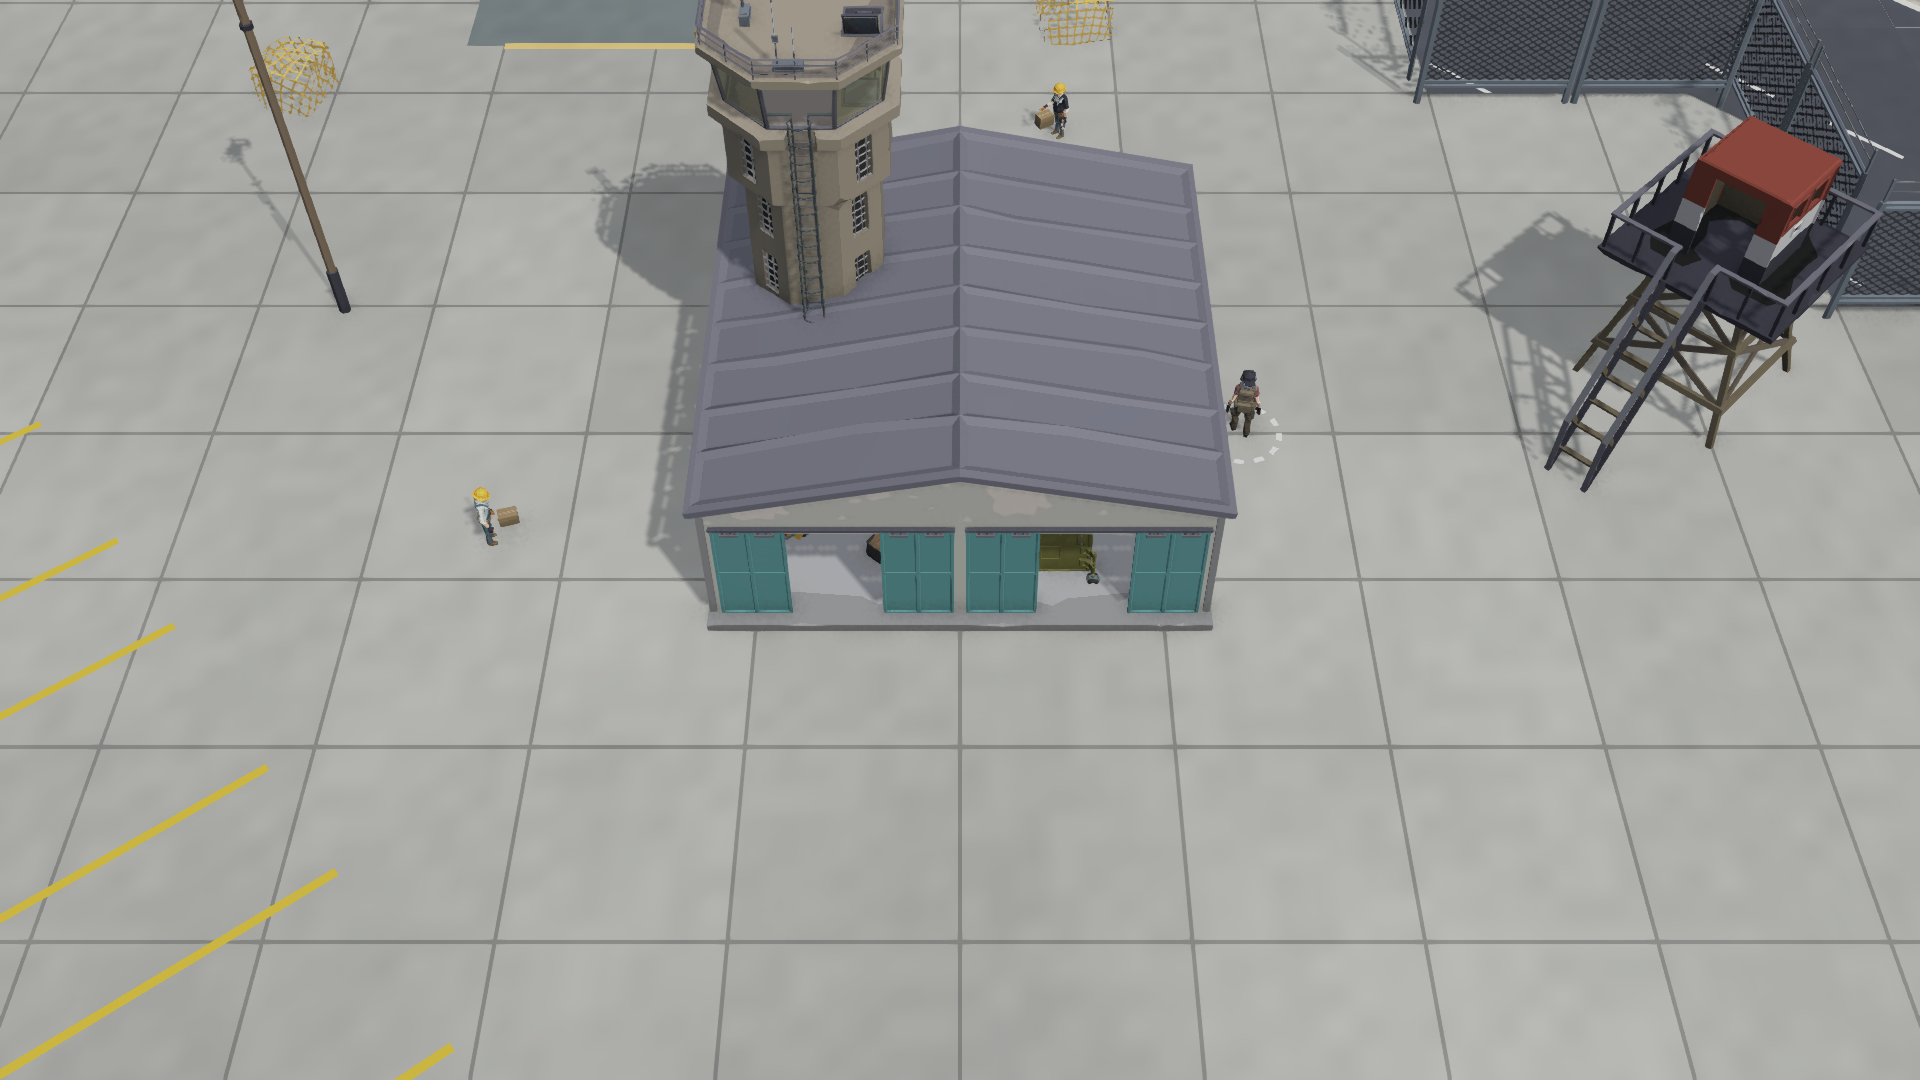
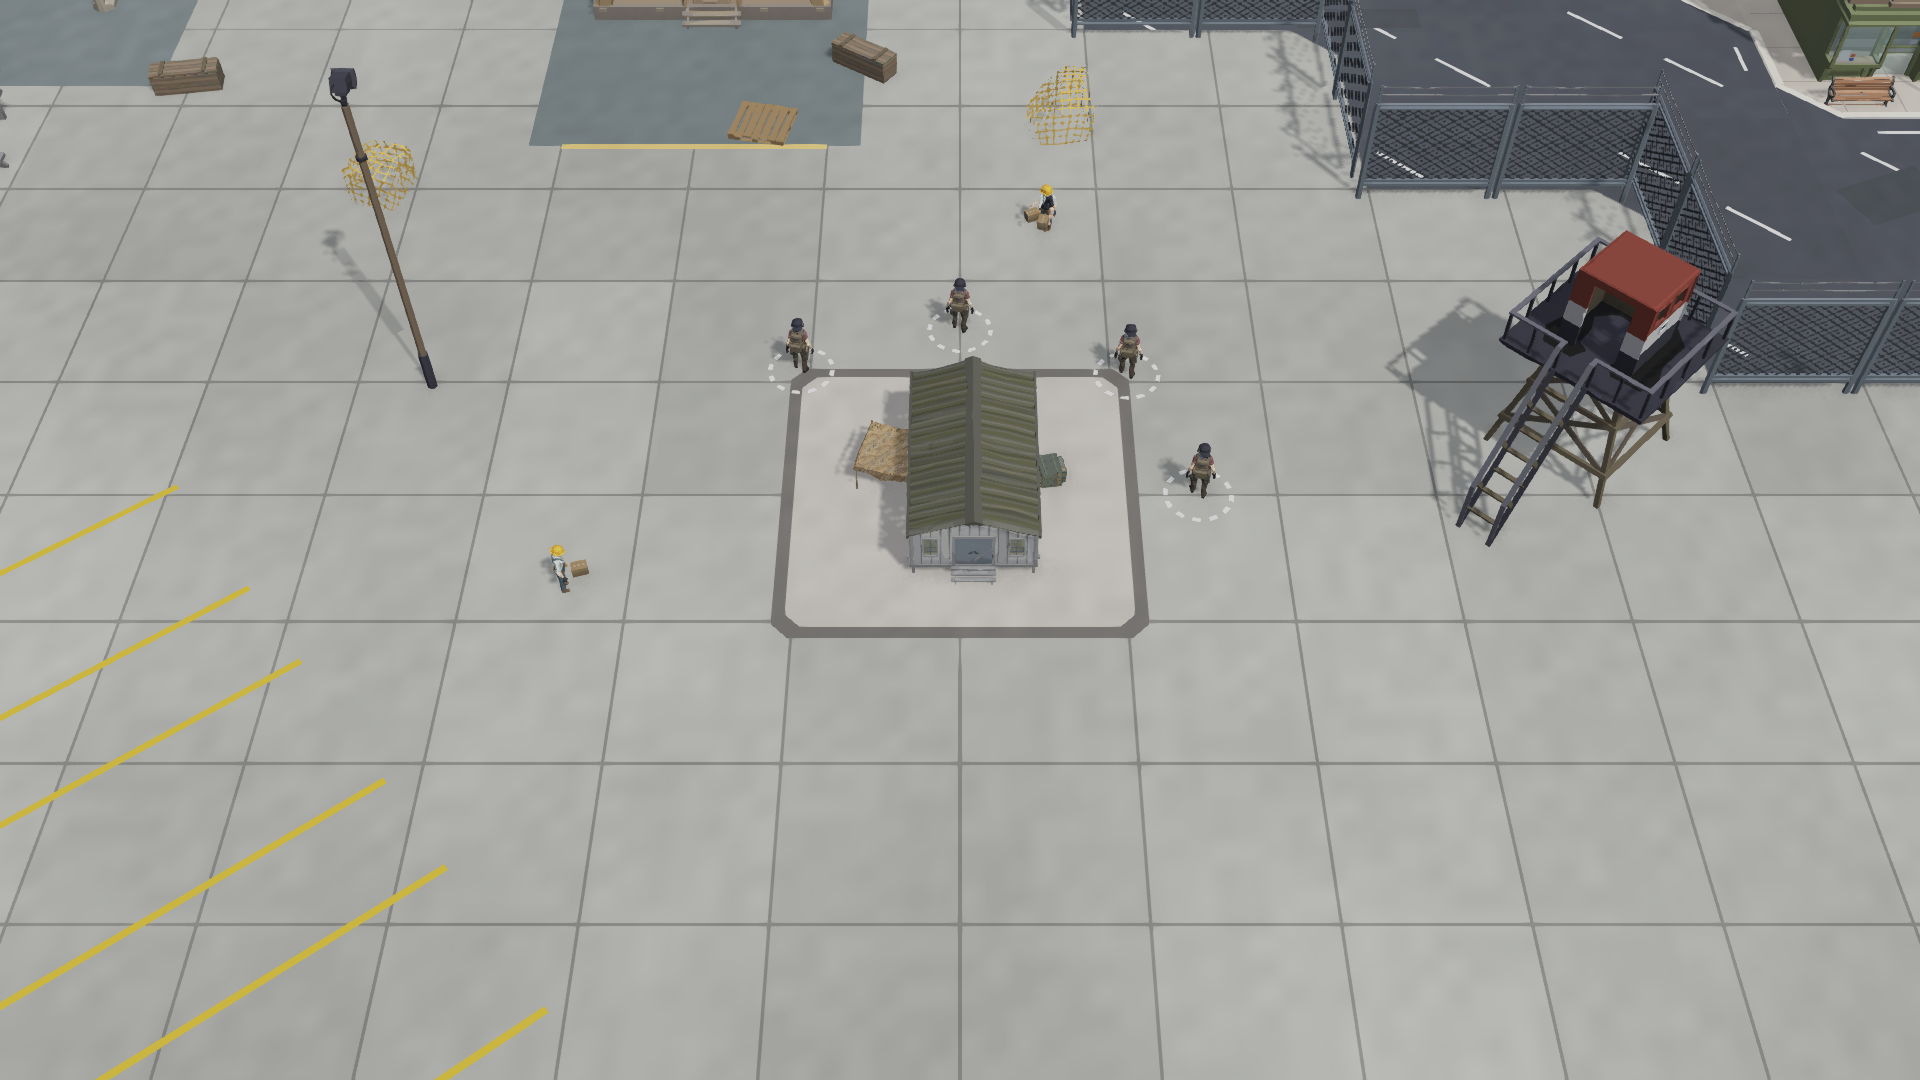
[gemini] 승인된 사령부(HQ) 1->2->3단계 컨셉 시안 실게임 적용 (1단계 막사 본관 교체 + 2·3단계 Synty+GLB 증설 및 Map4P 육안 검수 통과)

diff --git a/Assets/Editor/FactoryWars/HqTierKitTools.cs b/Assets/Editor/FactoryWars/HqTierKitTools.cs
@@ -1,0 +1,108 @@
+namespace FactoryWars.EditorTools {
+  using System;
+  using System.IO;
+  using FactoryWars.View;
+  using UnityEditor;
+  using UnityEngine;
+
+  /// <summary>
+  /// 승인된 사령부(HQ) 1→2→3단계 컨셉 시안 적용 도구.
+  /// 1) 1단계 본관(ff_headquarters_kit / cf_headquarters_kit)을 단순 창고에서 Synty 군사 막사 + 위장 텐트 + 방벽 + 보급품으로 교체.
+  /// 2) 2·3단계 증설 파츠(작전통제실 윙·발전기·관제탑·강화 방벽·헬리패드·투광등·지휘 APC·지휘 헬기)를 Resources/FactoryWarsPolish/에 배치.
+  /// </summary>
+  public static class HqTierKitTools {
+    const string PolishDir = SyntyAssign.OutRoot + "/Polish/Resources/FactoryWarsPolish";
+    const string PrefabDir = SyntyAssign.OutRoot + "/Prefabs";
+    const string PM = SyntyAssign.PackRoot + "/PolygonMilitary/Prefabs/";
+    const string PCN = SyntyAssign.PackRoot + "/PolygonConstruction/Prefabs/";
+    const string GLB = "Assets/ThirdParty/GlbImported/Prefabs/";
+
+    [MenuItem("Tools/Factory Wars/Assets/Apply Approved HQ Tier 1-3 Kit")]
+    public static void ApplyApprovedHqTierKit() {
+      Directory.CreateDirectory(PolishDir);
+      Directory.CreateDirectory(PrefabDir);
+      AssetDatabase.Refresh(ImportAssetOptions.ForceSynchronousImport);
+
+      // 1. Copy Tier 2 & Tier 3 modular upgrade parts into Resources/FactoryWarsPolish/
+      var parts = new (string Key, string Source)[] {
+        ("HqControlRoom1", PM + "Props/Military/SM_Prop_Drone_Control_Room_01.prefab"),
+        ("HqControlRoom2", PM + "Props/Military/SM_Prop_Drone_Control_Room_02.prefab"),
+        ("HqGenerator",    PM + "Props/SM_Prop_Generator_Large_01.prefab"),
+        ("HqControlTower", PM + "Buildings/SM_Bld_ControlTower_01.prefab"),
+        ("HqBlastWall",    PM + "Props/SM_Prop_Barrier_Tall_Group_01.prefab"),
+        ("HqHelipad",      PM + "Environment/SM_Env_Helipad_01.prefab"),
+        ("HqFloodlight",   PCN + "Props/SM_Prop_Floodlights_01.prefab"),
+        ("HqCmdApc",       GLB + "armored_troop_carrier.prefab"),
+        ("HqCmdHeli",      GLB + "mh6_little_bird.prefab"),
+      };
+      var copied = 0;
+      foreach (var (key, src) in parts) {
+        var dst = $"{PolishDir}/{key}.prefab";
+        if (AssetDatabase.LoadAssetAtPath<GameObject>(src) == null) {
+          Debug.LogWarning($"[FW-HQ] Missing source prefab: {src}");
+          continue;
+        }
+        if (AssetDatabase.LoadAssetAtPath<GameObject>(dst) != null) {
+          AssetDatabase.DeleteAsset(dst);
+        }
+        if (AssetDatabase.CopyAsset(src, dst)) copied++;
+      }
+
+      // 2. Rebuild Tier 1 Field HQ core (ff_headquarters_kit & cf_headquarters_kit)
+      var catalog = AssetDatabase.LoadAssetAtPath<VisualCatalog>(VisualCatalogTools.AssetPath);
+      if (catalog == null) throw new InvalidOperationException($"Missing VisualCatalog at {VisualCatalogTools.AssetPath}");
+
+      foreach (var faction in new[] { "ff", "cf" }) {
+        var kitPath = $"{PrefabDir}/{faction}_headquarters_kit.prefab";
+        var root = new GameObject($"{faction}_headquarters_kit");
+        try {
+          // Core low-profile military barracks (replaces monotonous Warehouse_01 + baked ControlTower)
+          AddPart(root.transform, PM + "Buildings/SM_Bld_Barracks_01.prefab", Vector3.zero, Quaternion.identity, Vector3.one * 0.92f);
+          // Right-side camo net command canopy
+          AddPart(root.transform, PM + "Buildings/SM_Bld_CamoNet_Tent_01.prefab", new Vector3(4.3f, 0f, -1.5f), Quaternion.Euler(0f, 15f, 0f), Vector3.one * 0.72f);
+          // Front sandbag defensive barrier
+          AddPart(root.transform, PM + "Props/Military/SM_Prop_Barrier_Base_Row_01.prefab", new Vector3(0f, 0f, -4.3f), Quaternion.identity, Vector3.one * 0.95f);
+          // Left-side supply crate stack
+          AddPart(root.transform, PM + "Props/Military/SM_Prop_Crate_Stack_01.prefab", new Vector3(-4.2f, 0f, -1.3f), Quaternion.Euler(0f, -12f, 0f), Vector3.one * 0.95f);
+
+          foreach (var col in root.GetComponentsInChildren<Collider>(true)) UnityEngine.Object.DestroyImmediate(col);
+
+          var prefab = PrefabUtility.SaveAsPrefabAsset(root, kitPath);
+          var bounds = VisualCatalog.LocalBounds(prefab);
+          var slot = catalog.Get($"building/{faction}_headquarters");
+          if (slot != null) {
+            slot.Prefabs.Clear();
+            slot.Prefabs.Add(prefab);
+            slot.PivotOffset = new Vector3(-bounds.center.x, -bounds.min.y, -bounds.center.z);
+            slot.Size = bounds.size;
+            slot.AutoFit = true;
+            slot.Notes = "Approved Tier 1 Field HQ (Barracks + Camo Tent + Sandbags + Crates; Tier 2/3 attached dynamically)";
+            Debug.Log($"[FW-HQ] Rebuilt {slot.Id} -> {kitPath} (size={bounds.size})");
+          }
+        } finally {
+          UnityEngine.Object.DestroyImmediate(root);
+        }
+      }
+
+      catalog.Invalidate();
+      EditorUtility.SetDirty(catalog);
+      AssetDatabase.SaveAssets();
+      Debug.Log($"[FW-HQ] Approved HQ Tier 1-3 Kit applied: copiedParts={copied}");
+    }
+
+    static void AddPart(Transform parent, string assetPath, Vector3 localPos, Quaternion localRot, Vector3 localScale) {
+      var src = AssetDatabase.LoadAssetAtPath<GameObject>(assetPath);
+      if (src == null) {
+        Debug.LogWarning($"[FW-HQ] AddPart missing: {assetPath}");
+        return;
+      }
+      var inst = (GameObject)PrefabUtility.InstantiatePrefab(src, parent);
+      PrefabUtility.UnpackPrefabInstance(inst, PrefabUnpackMode.Completely, InteractionMode.AutomatedAction);
+      var bounds = VisualCatalog.LocalBounds(inst);
+      var baseCenter = new Vector3(bounds.center.x, bounds.min.y, bounds.center.z);
+      inst.transform.localRotation = localRot;
+      inst.transform.localScale = localScale;
+      inst.transform.localPosition = localPos - localRot * Vector3.Scale(baseCenter, localScale);
+    }
+  }
+}

diff --git a/Assets/QuantumUser/View/FactoryWars/Art/HeroVisuals.cs b/Assets/QuantumUser/View/FactoryWars/Art/HeroVisuals.cs
@@ -392,24 +392,39 @@ namespace FactoryWars.View {
       return root;
     }
 
-    /// <summary>사령부 티어(1→2→3) 증설 비주얼: Synty 군사 프리팹(레이더·방벽·보급품·감시탑·지휘 막사)을 건물 외곽 에이프런에 배치(지붕 관통 없음).</summary>
+    /// <summary>
+    /// 승인된 사령부(HQ) 1→2→3단계 컨셉 시안 증설 비주얼:
+    /// - Tier 1: 기본 야전 막사 본관(Barracks + 위장 텐트 + 모래주머니 + 보급품)
+    /// - Tier 2: 좌·우 작전통제실 윙(Drone Control Room) + 비상 발전기 + 회전 이동식 레이더 + 좌측 8륜 지휘 장갑차(GLB APC)
+    /// - Tier 3: 대형 관제탑(ControlTower) + 외곽 감시탑 + 강화 콘크리트 방벽 + 투광등 + 좌측 후방 헬리패드 & 지휘 헬기(GLB Little Bird)
+    /// </summary>
     public static GameObject AttachHqTierUpgrade(Transform model, int tier, float footprint, float modelHeight) {
       if (model == null || tier <= 1) return null;
       var root = new GameObject($"HqTierUpgrade_T{tier}");
       root.transform.SetParent(model.parent != null ? model.parent : model, false);
       root.transform.localPosition = Vector3.zero;
       root.transform.localRotation = Quaternion.identity;
-      var side = Mathf.Max(footprint * 1.48f, 6.4f);
-      var front = Mathf.Max(footprint * 1.32f, 5.6f);
-      // Tier 2: 우측 이동식 레이더 안테나 + 전면 방어 모래주머니 진지 + 좌측 보급 화물 더미.
-      MapPolishArt.Place("Radar", root.transform, new Vector3(side, 0f, 1.6f), Quaternion.Euler(0f, -35f, 0f), new Vector3(3.4f, 4.6f, 3.4f));
-      MapPolishArt.Place("Sandbags", root.transform, new Vector3(0f, 0f, -front), Quaternion.identity, new Vector3(6.8f, 1.25f, 1.35f));
-      MapPolishArt.Place("Crates", root.transform, new Vector3(-side, 0f, -2.0f), Quaternion.Euler(0f, 15f, 0f), new Vector3(2.4f, 1.8f, 2.4f));
+
+      // Tier 2 (Comms & Ops HQ): 좌·우 컨테이너 작전통제실 윙 + 비상 발전기 + 회전 레이더 + 좌측 지휘 장갑차(APC).
+      MapPolishArt.Place("HqControlRoom1", root.transform, new Vector3(-5.6f, 0f, 0.8f), Quaternion.Euler(0f, 90f, 0f), new Vector3(5.0f, 2.9f, 2.8f));
+      MapPolishArt.Place("HqControlRoom2", root.transform, new Vector3(5.6f, 0f, 0.8f), Quaternion.Euler(0f, -90f, 0f), new Vector3(5.0f, 2.9f, 2.8f));
+      MapPolishArt.Place("HqGenerator", root.transform, new Vector3(7.0f, 0f, -2.1f), Quaternion.Euler(0f, -90f, 0f), new Vector3(2.2f, 1.8f, 1.6f));
+      MapPolishArt.Place("Radar", root.transform, new Vector3(4.2f, 0f, -5.2f), Quaternion.Euler(0f, -32f, 0f), new Vector3(3.1f, 4.1f, 3.1f));
+      MapPolishArt.Place("HqCmdApc", root.transform, new Vector3(-5.0f, 0f, -5.1f), Quaternion.Euler(0f, 142f, 0f), new Vector3(2.5f, 2.6f, 5.6f));
+
       if (tier >= 3) {
-        // Tier 3: 좌측 후방 전략 감시탑 + 우측 전면 지휘 위장막 + 좌측 전면 서치라이트(고티어 전략 지휘부 실루엣).
-        MapPolishArt.Place("Tower", root.transform, new Vector3(-side - 0.3f, 0f, 3.2f), Quaternion.Euler(0f, 25f, 0f), new Vector3(3.2f, Mathf.Clamp(modelHeight + 3.2f, 7.6f, 9.8f), 3.2f));
-        MapPolishArt.Place("CamoYard", root.transform, new Vector3(side + 0.4f, 0f, -2.8f), Quaternion.Euler(0f, -90f, 0f), new Vector3(4.2f, 3.2f, 4.0f));
-        MapPolishArt.Place("Light", root.transform, new Vector3(-side + 0.8f, 0f, -front + 0.4f), Quaternion.Euler(0f, 140f, 0f), new Vector3(1.2f, 3.6f, 1.2f));
+        // Tier 3 (Strategic Command HQ): 후방 좌측 대형 관제탑 + 전방 좌측 감시탑 + 전방 우측 헬리패드 & 리틀버드 지휘 헬기 + 비왜곡 방호벽/투광등.
+        MapPolishArt.Place("HqControlTower", root.transform, new Vector3(6.6f, 0f, -6.4f), Quaternion.Euler(0f, 180f, 0f), new Vector3(4.2f, 10.2f, 4.2f));
+        MapPolishArt.Place("Tower", root.transform, new Vector3(7.4f, 0f, 5.8f), Quaternion.Euler(0f, -20f, 0f), new Vector3(2.8f, 6.2f, 2.8f));
+        MapPolishArt.Place("HqHelipad", root.transform, new Vector3(-5.0f, 0.04f, 6.2f), Quaternion.identity, new Vector3(6.6f, 0.14f, 6.6f));
+        MapPolishArt.Place("HqCmdHeli", root.transform, new Vector3(-5.0f, 0.16f, 6.2f), Quaternion.Euler(0f, 138f, 0f), new Vector3(5.2f, 2.1f, 5.0f));
+        // 왜곡 없는 1:1 비율 콘크리트 방호벽(Jersey) 좌·우·후면 정렬 배치.
+        MapPolishArt.Place("Jersey", root.transform, new Vector3(-9.2f, 0f, 1.0f), Quaternion.Euler(0f, 90f, 0f), new Vector3(3.4f, 1.5f, 1.1f));
+        MapPolishArt.Place("Jersey", root.transform, new Vector3(-9.2f, 0f, 4.8f), Quaternion.Euler(0f, 90f, 0f), new Vector3(3.4f, 1.5f, 1.1f));
+        MapPolishArt.Place("Jersey", root.transform, new Vector3(9.2f, 0f, 1.0f), Quaternion.Euler(0f, -90f, 0f), new Vector3(3.4f, 1.5f, 1.1f));
+        MapPolishArt.Place("Jersey", root.transform, new Vector3(9.2f, 0f, 4.8f), Quaternion.Euler(0f, -90f, 0f), new Vector3(3.4f, 1.5f, 1.1f));
+        MapPolishArt.Place("HqFloodlight", root.transform, new Vector3(-8.2f, 0f, 8.2f), Quaternion.Euler(0f, 135f, 0f), new Vector3(1.4f, 4.4f, 1.4f));
+        MapPolishArt.Place("HqFloodlight", root.transform, new Vector3(8.2f, 0f, 8.2f), Quaternion.Euler(0f, -135f, 0f), new Vector3(1.4f, 4.4f, 1.4f));
       }
       return root;
     }

diff --git a/Assets/Tests/SequentialResourceAndFeelTests.cs b/Assets/Tests/SequentialResourceAndFeelTests.cs
@@ -2580,8 +2580,8 @@ namespace FactoryWars.Tests {
           break;
         }
       }
-      rts.Height = 32f;
-      rts.MoveTo(new Vector2(hqPos.X.AsFloat, hqPos.Z.AsFloat));
+      rts.Height = 38f;
+      rts.MoveTo(new Vector2(hqPos.X.AsFloat, hqPos.Z.AsFloat + 1.5f));
       rts.Apply();
       yield return WaitFrames(8);
       CaptureCameraPng(camera, Path.Combine(dir, "hq_tier_1.png"), 1920, 1080);

diff --git a/README.md b/README.md
@@ -12,7 +12,7 @@
 | 전맵 자원 보급 사이클 (적치→트럭 수거→사령부 납품→재순환, GIF) | 사령부 납품 완료 플로팅 `+120 철` 피드백 (`stock 500→740`) | 사령부 Tier 1 · Tier 2 · Tier 3 외형 증설 비교 |
 | --- | --- | --- |
 | [![전맵 자원 보급 사이클 GIF](Docs/status_images/SupplyAndHqTiers/full_map_supply_cycle.gif)](Docs/status_images/SupplyAndHqTiers/full_map_supply_cycle.gif) | [![사령부 +120 철 플로팅 피드백](Docs/status_images/SupplyAndHqTiers/hq_delivery_gain_popup.png)](Docs/status_images/SupplyAndHqTiers/hq_delivery_gain_popup.png) | [![사령부 1~3티어 비교](Docs/status_images/SupplyAndHqTiers/hq_tiers_1_2_3_comparison.png)](Docs/status_images/SupplyAndHqTiers/hq_tiers_1_2_3_comparison.png) |
-| [보급 사이클 GIF](Docs/status_images/SupplyAndHqTiers/full_map_supply_cycle.gif) (18프레임) · 14종 유닛 공격 GIF (`Docs/status_images/UnitAttackGifs/`) | [사령부 납품 피드백 원본](Docs/status_images/SupplyAndHqTiers/hq_delivery_gain_popup.png) (`BattleView.SpawnHqResourceGainPopup`) | [T1](Docs/status_images/SupplyAndHqTiers/hq_tier_1.png) · [T2](Docs/status_images/SupplyAndHqTiers/hq_tier_2.png) · [T3](Docs/status_images/SupplyAndHqTiers/hq_tier_3.png) (`HeroVisuals.AttachHqTierUpgrade`) |
+| [보급 사이클 GIF](Docs/status_images/SupplyAndHqTiers/full_map_supply_cycle.gif) (18프레임) · 14종 유닛 공격 GIF (`Docs/status_images/UnitAttackGifs/`) | [사령부 납품 피드백 원본](Docs/status_images/SupplyAndHqTiers/hq_delivery_gain_popup.png) (`BattleView.SpawnHqResourceGainPopup`) | **승인 시안 적용:** [T1](Docs/status_images/SupplyAndHqTiers/hq_tier_1.png) · [T2](Docs/status_images/SupplyAndHqTiers/hq_tier_2.png) · [T3](Docs/status_images/SupplyAndHqTiers/hq_tier_3.png) (`HqTierKitTools` + `HeroVisuals`) |
 
 ---
 
